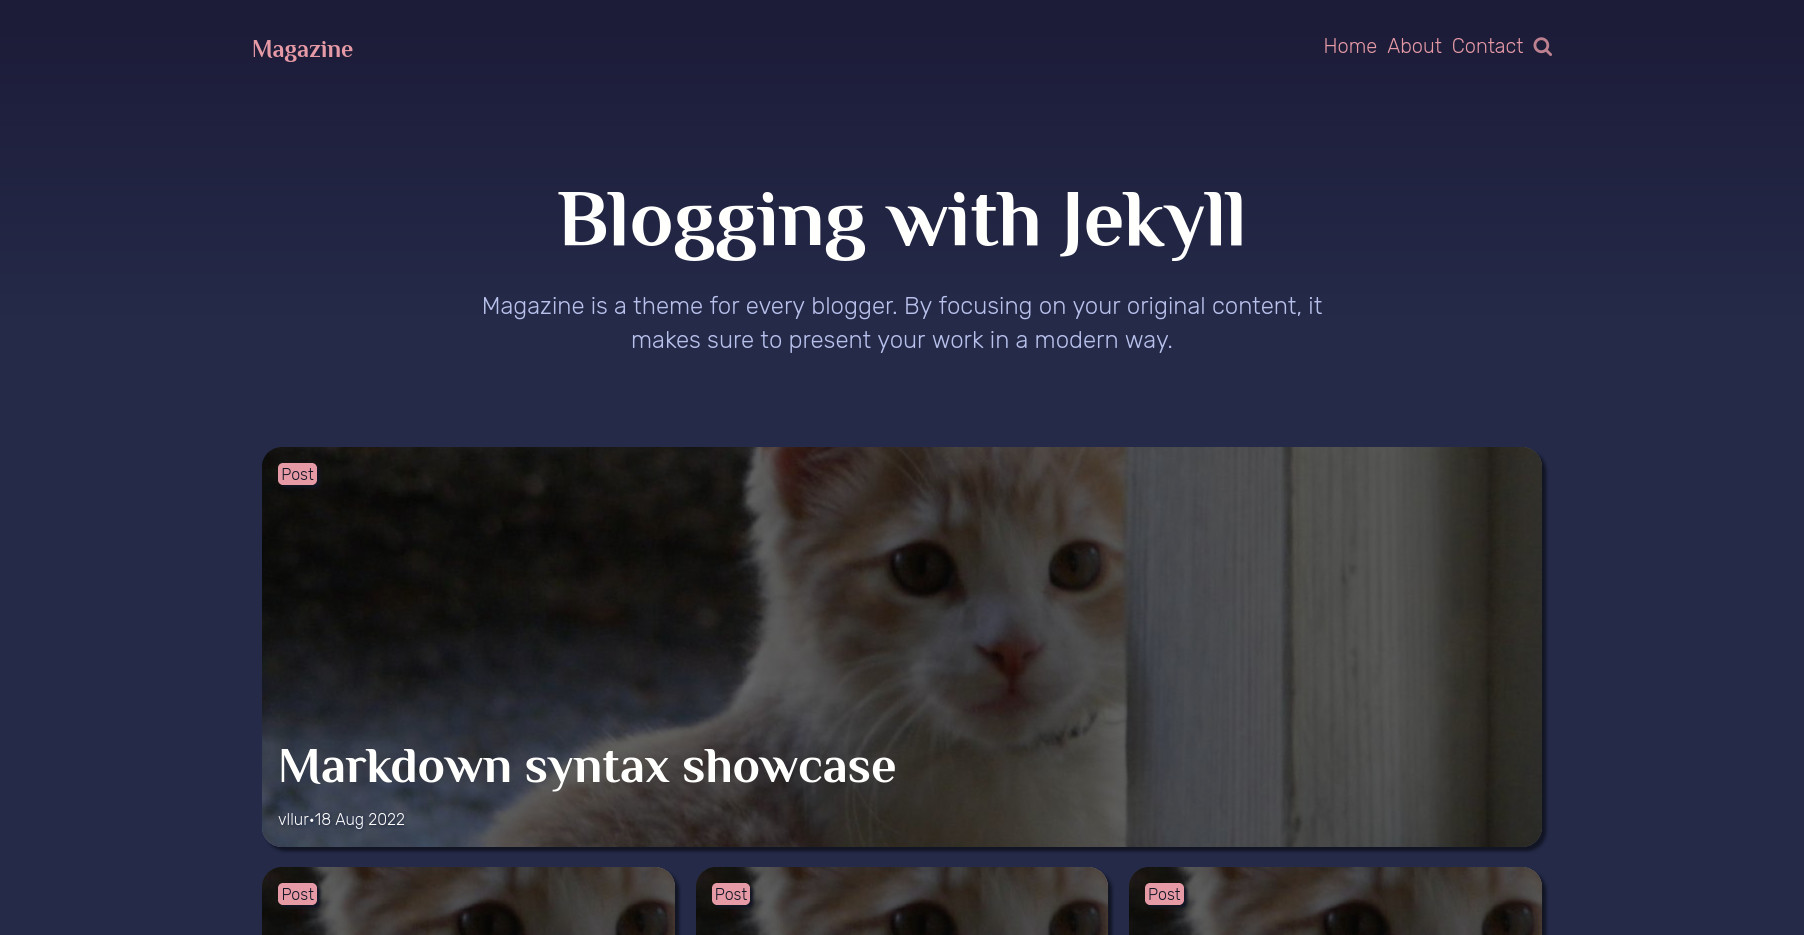
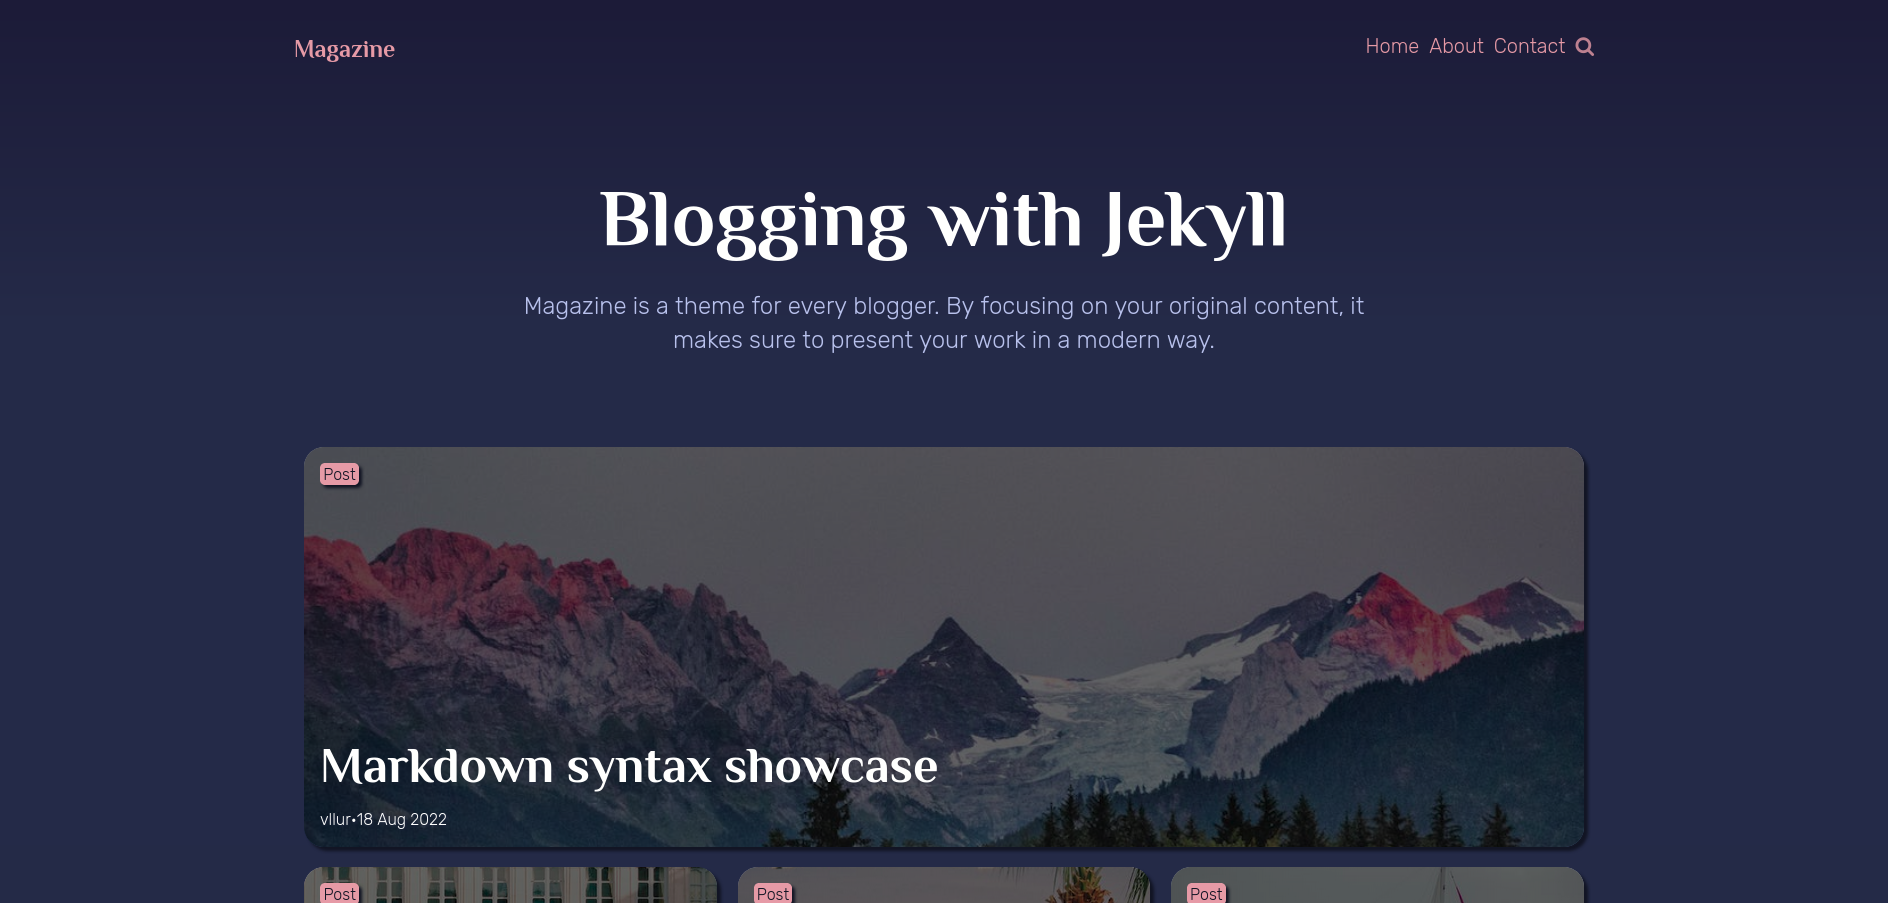
Updated images

diff --git a/_sass/components/index.scss b/_sass/components/index.scss
@@ -93,6 +93,7 @@
       background-blend-mode: darken;
       background-repeat: no-repeat;
       background-position: center;
+      background-size: cover;
       display: flex;
       flex-direction: column;
       border-radius: 20px;

diff --git a/content/_posts/2022-07-17-Customizing-colors.md b/content/_posts/2022-07-17-Customizing-colors.md
@@ -1,6 +1,7 @@
 ---
 title: Customizing colors
 published: true
+img: /Magazine/img/2.jpeg
 ---
 
 To customize this theme's colors, open `_sass/abstracts/variables.scss` file and change hex values to your liking.

diff --git a/content/_posts/2022-06-16-Free-image-stocks.md b/content/_posts/2022-06-16-Free-image-stocks.md
@@ -1,6 +1,7 @@
 ---
 title: Free image stocks
 published: true
+img: /Magazine/img/3.jpeg
 ---
 
 Instead of using markdown's image placing, you may use this theme's wrapper, as demonstrated in this file.

diff --git a/content/_posts/2022-05-15-Writing-posts-like-Hemingway.md b/content/_posts/2022-05-15-Writing-posts-like-Hemingway.md
@@ -1,6 +1,7 @@
 ---
 title: Writing posts like Hemingway
 published: true
+img: /Magazine/img/4.jpeg
 ---
 
 To improve your writing, you may like to use [Hemingway App](https://hemingwayapp.com/).

diff --git a/content/_posts/2022-08-18-Markdown-syntax-showcase.md b/content/_posts/2022-08-18-Markdown-syntax-showcase.md
@@ -1,6 +1,7 @@
 ---
 title: Markdown syntax showcase
 published: true
+img: /Magazine/img/1.jpeg
 ---
 
 This post is a demonstration of formatting capabilities of Markdown.
